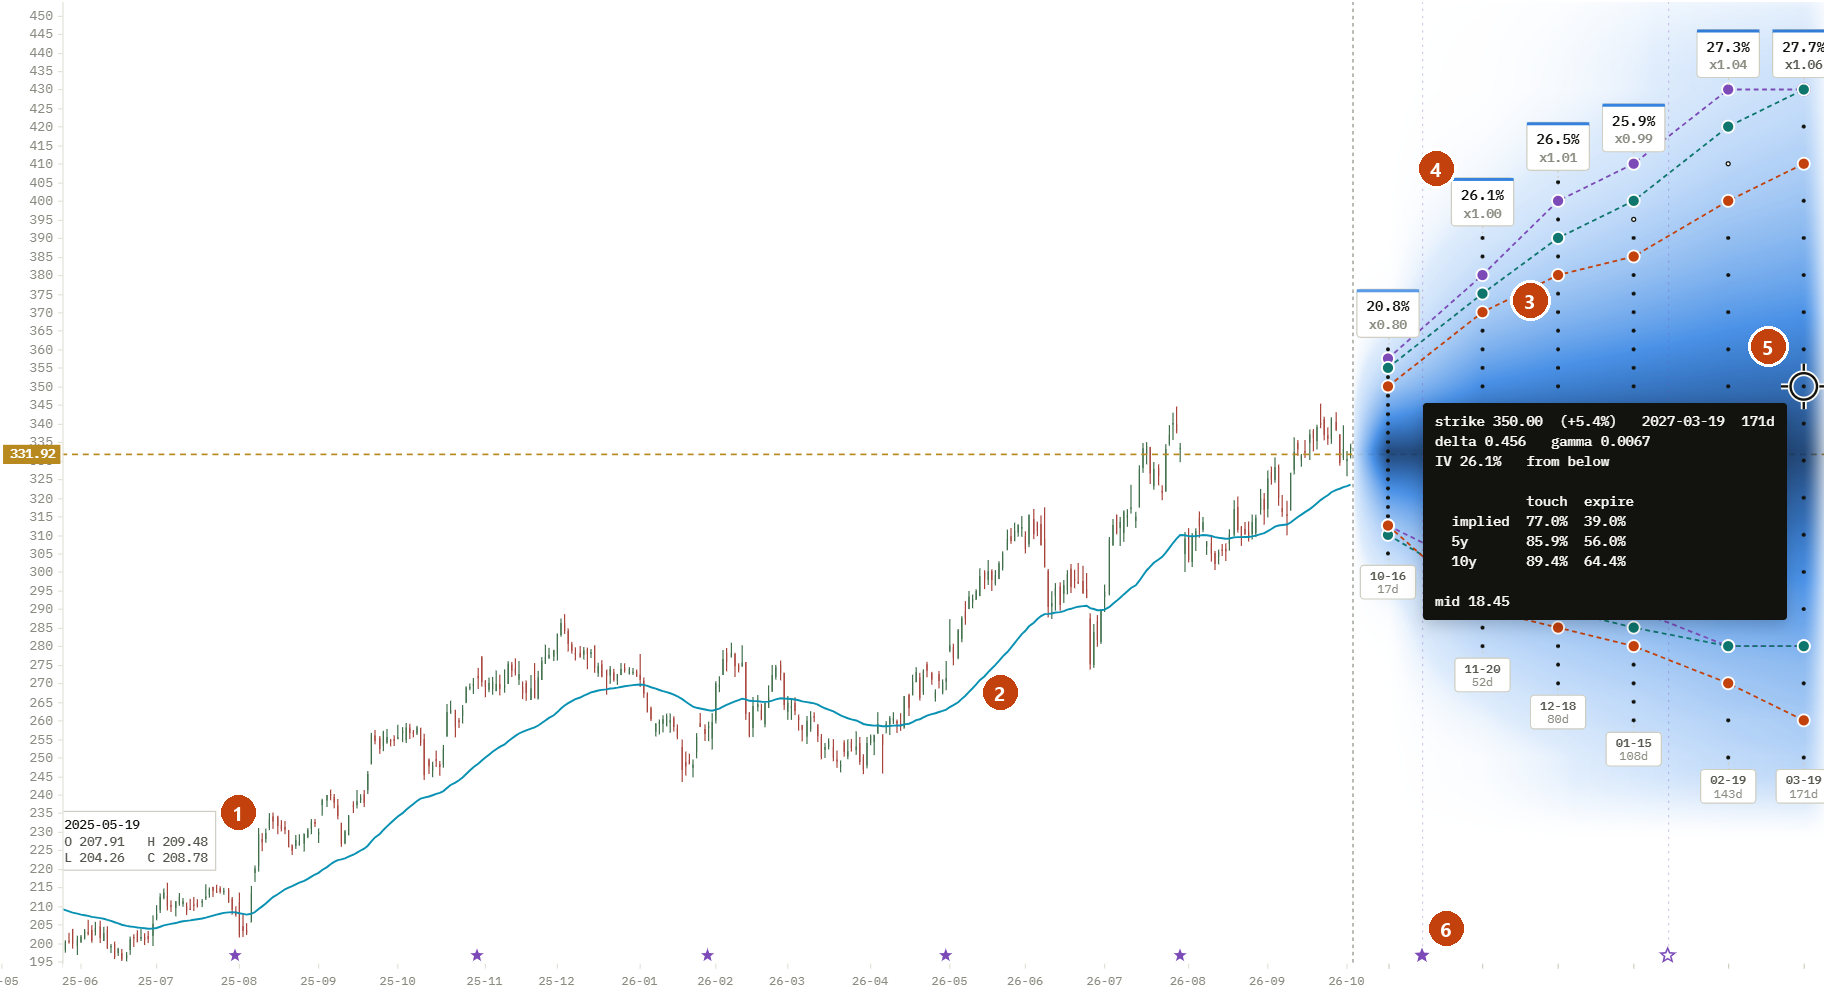
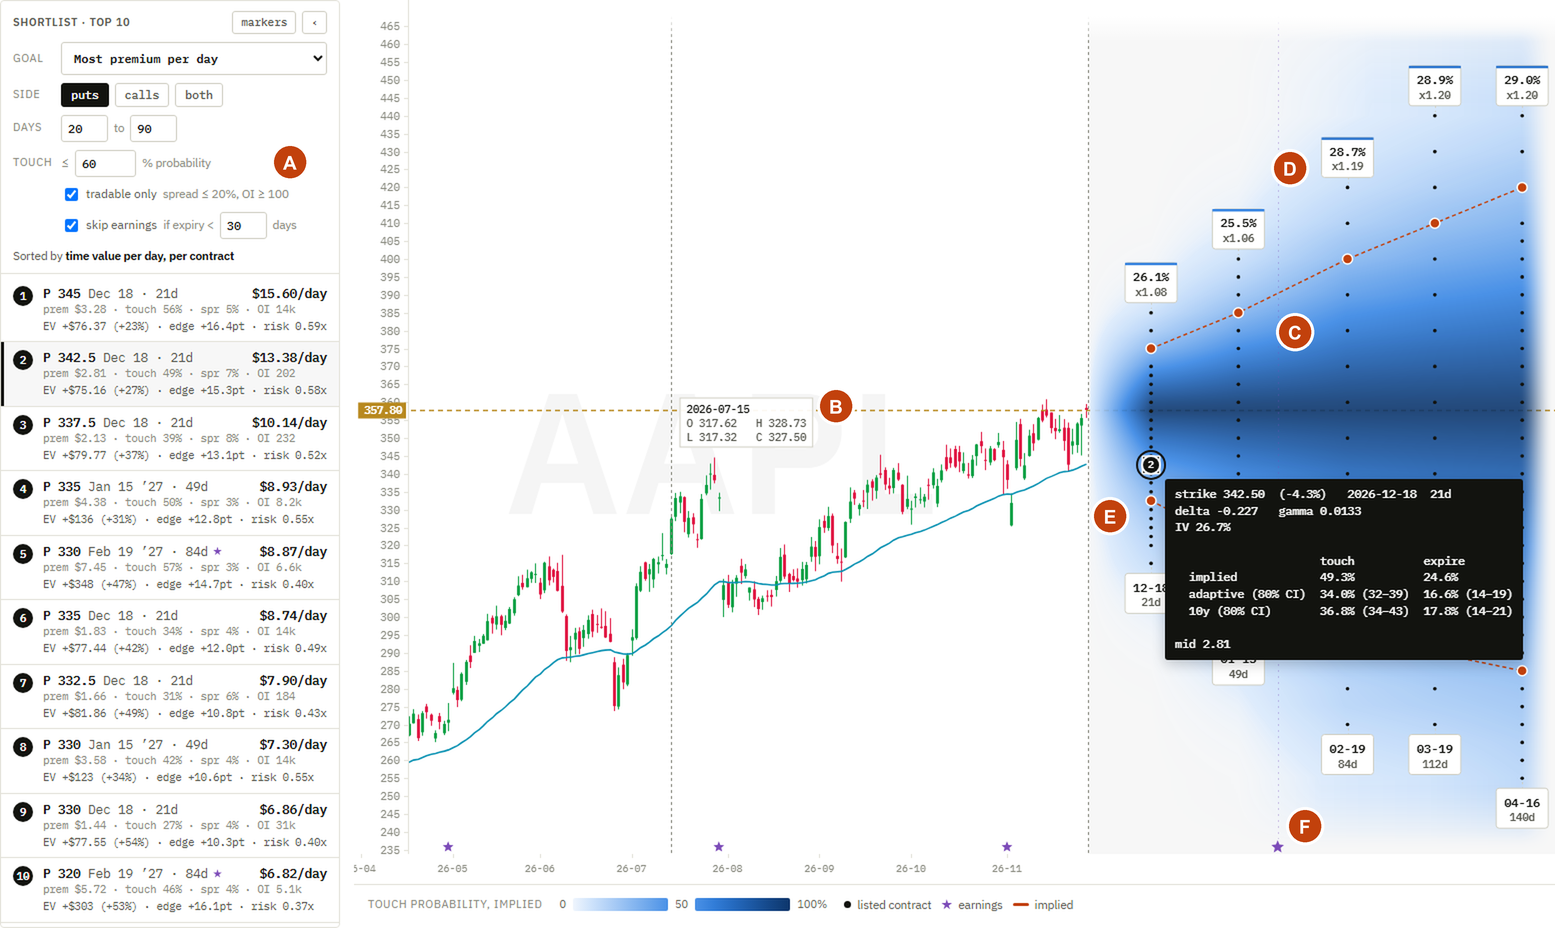
Site update

diff --git a/OptionsCone/index.html b/OptionsCone/index.html
@@ -116,6 +116,7 @@ details.acc[open] > summary::after { content: "\2212"; }
 .buy-facts { margin: 0; padding-left: 18px; font-size: 15px; line-height: 1.55; color: var(--ink-2); }
 .buy-facts li { margin: 0 0 4px; }
 @media (max-width: 860px) { .buy-row { grid-template-columns: 1fr; } }
+.marks li::before { content: counter(m, upper-alpha); }
 </style>
 </head>
 <body>
@@ -177,14 +178,14 @@ details.acc[open] > summary::after { content: "\2212"; }
       </div>
     </div>
     <figure class="shot" style="margin:34px 0 14px">
-      <a href="img/features.png"><img src="img/features-annotated.png" width="1824" height="998" loading="lazy" alt="OptionsCone showing Apple (AAPL): a selected contract with its tooltip, contour lines for three models, volatility badges, earnings stars, a moving average and the readout of a candle."></a>
+      <a href="img/features.png?v=7"><img src="img/features-annotated.png?v=7" width="1555" height="928" loading="lazy" alt="OptionsCone Pro showing Apple (AAPL): the shortlist of puts with the most premium per day, the second one selected with its tooltip, the implied 30% touch contour, volatility badges, earnings stars, a moving average and the readout of a candle."></a>
     </figure>
     <ol class="marks">
-      <li><strong>Candle readout.</strong> Open, high, low and close of the day under the pointer.</li>
-      <li><strong>Price chart tools.</strong> Two moving averages, trend and horizontal lines, daily or weekly candles, ten years of history.</li>
-      <li><strong>Contour lines.</strong> The strikes that match your chosen probability at every expiry, one line per model.</li>
+      <li><strong>Shortlist.</strong> The ten contracts that best fit a goal, such as the most premium per day, within your limits. With Pro, the goals include the highest expected value and the least risk per premium.</li>
+      <li><strong>Price chart.</strong> Two moving averages, trend and horizontal lines, daily or weekly candles and ten years of history, with the open, high, low and close of the day under the pointer.</li>
+      <li><strong>Contour lines.</strong> The strikes that match your chosen probability of a touch or of finishing beyond the strike, at every expiry, one line per model.</li>
       <li><strong>Expiry badges.</strong> The implied volatility of each expiry, and how it compares with the stock&#39;s realized volatility.</li>
-      <li><strong>Selected contract.</strong> Click a dot and its tooltip stays open: delta, gamma, implied volatility, touch and expire probabilities from the option market and, with Pro, from the realized odds.</li>
+      <li><strong>Selected contract.</strong> Click a dot or a shortlist row and its tooltip stays open: touch and expire probabilities, implied volatility, spread and more, depending on the map. Pro adds maps for potential opportunities and for the risk you take on.</li>
       <li><strong>Earnings dates.</strong> Filled where confirmed, hollow where projected; an expiry that spans a report prices a different risk.</li>
     </ol>
   </section>
